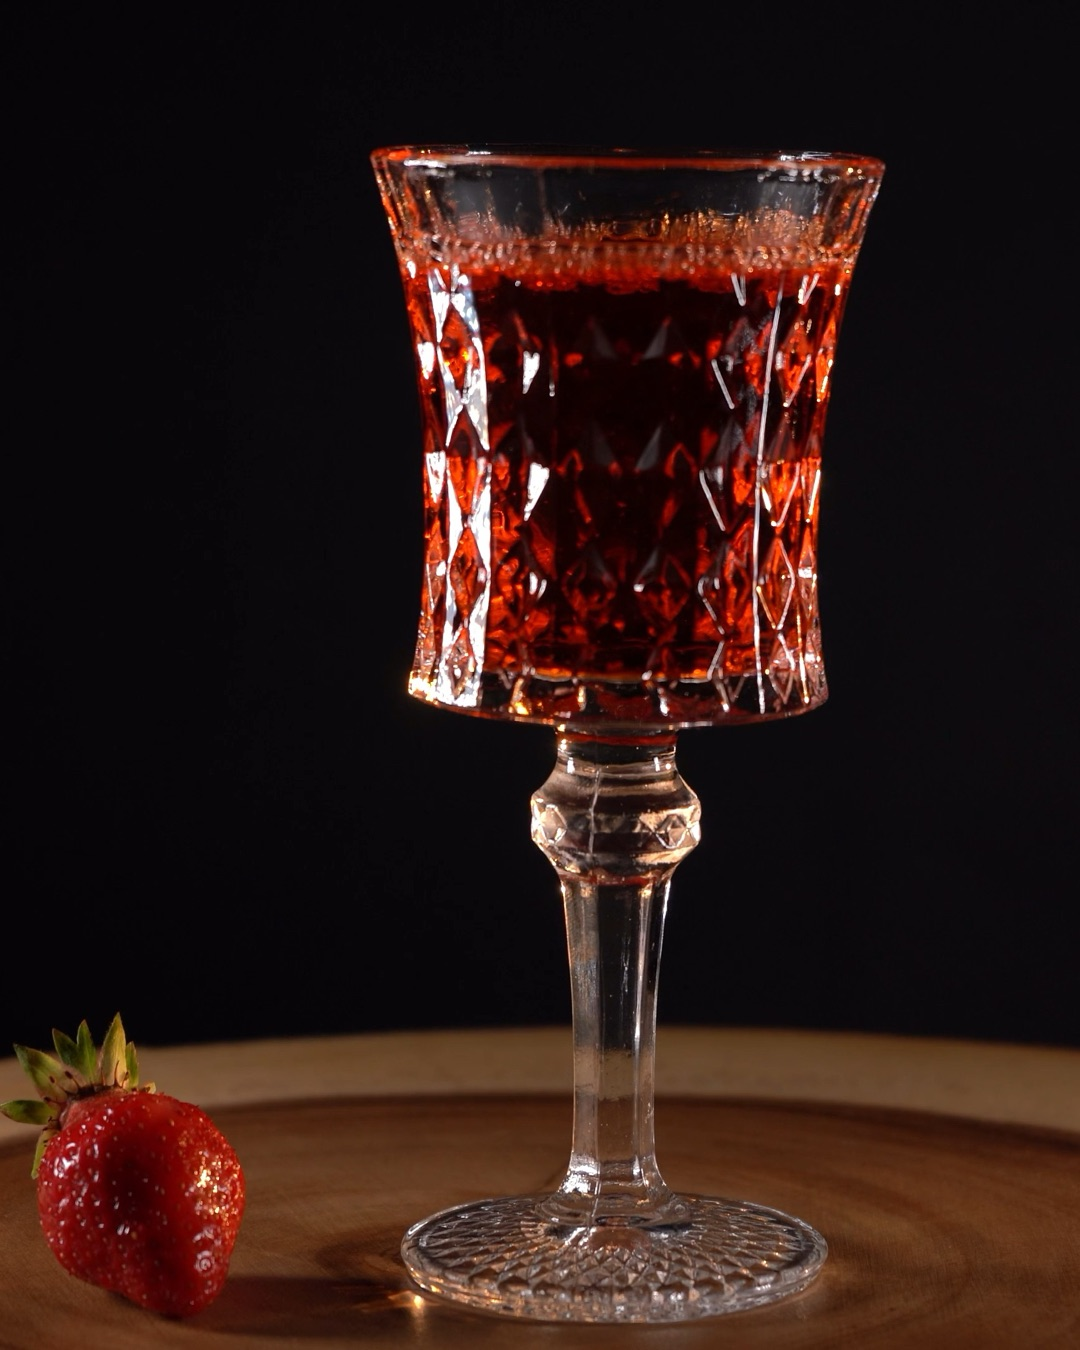
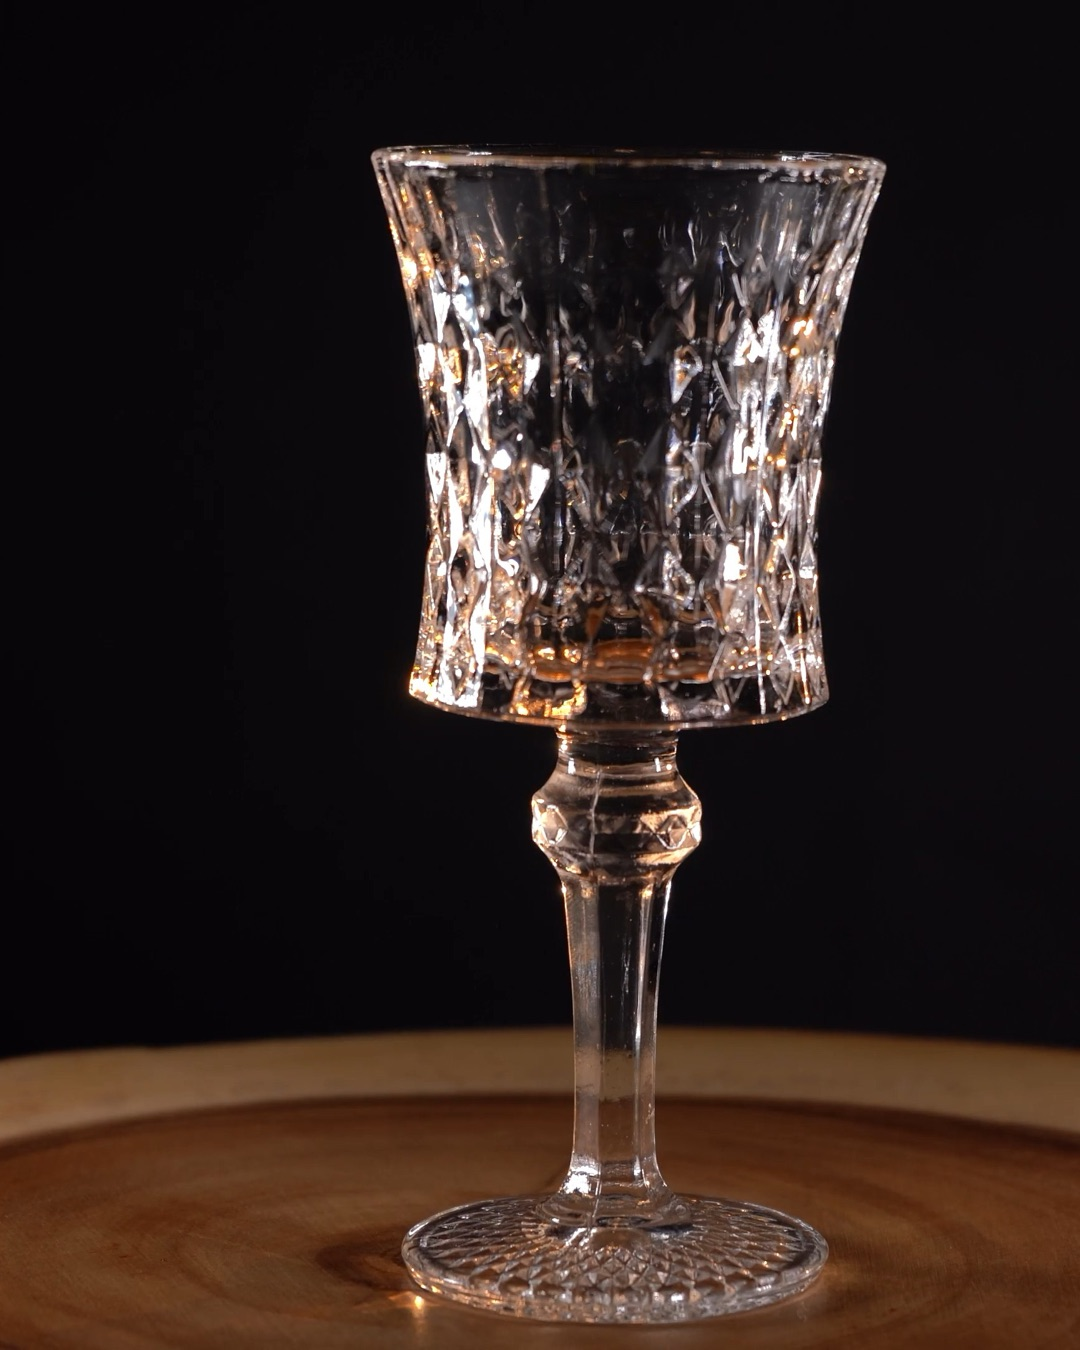
Video dell'hero affidabile su iPhone, intro più piccola, città
- Il video resta sempre visibile sotto la copertina (Safari non avvia i
  video invisibili): la copertina svanisce quando parte.
- Copertina = primo fotogramma (bicchiere vuoto); senza video (riduci
  movimento, risparmio dati, errore) si vede il drink finito.
- Con risparmio energetico su iPhone il video parte al primo tocco.
- Intro: logo AQUA più piccolo ed elegante, linea più corta.
- Indirizzo completo: 62012 Civitanova Marche (MC), anche nel link Maps.

diff --git a/index.html b/index.html
@@ -4,7 +4,7 @@
   <meta charset="utf-8">
   <meta name="viewport" content="width=device-width, initial-scale=1">
   <title>Aqua — Cocktail bar</title>
-  <meta name="description" content="Aqua, cocktail bar. Miscelazione d'autore, ghiaccio tagliato a mano e il tempo giusto per goderseli.">
+  <meta name="description" content="Aqua, cocktail bar a Civitanova Marche. Miscelazione d'autore, ghiaccio tagliato a mano e il tempo giusto per goderseli.">
   <meta name="theme-color" content="#0E1514">
   <link rel="icon" href="assets/favicon.svg?v=2" type="image/svg+xml">
   <meta property="og:type" content="website">
@@ -24,8 +24,8 @@
   </script>
   <link rel="preload" href="assets/fonts/cormorant-garamond-latin.woff2" as="font" type="font/woff2" crossorigin>
   <link rel="preload" href="assets/fonts/manrope-latin.woff2" as="font" type="font/woff2" crossorigin>
-  <link rel="stylesheet" href="assets/css/fonts.css?v=24">
-  <link rel="stylesheet" href="assets/css/style.css?v=24">
+  <link rel="stylesheet" href="assets/css/fonts.css?v=25">
+  <link rel="stylesheet" href="assets/css/style.css?v=25">
 </head>
 <body>
   <a class="skip" href="#main">Vai al contenuto</a>
@@ -75,7 +75,7 @@
         <li><a href="#contatti"><span>05</span>Dove siamo</a></li>
       </ol>
     </nav>
-    <p class="mobile-menu__foot">Corso Umberto I, 31 · <span data-open-status>Stasera dalle 17:00</span></p>
+    <p class="mobile-menu__foot">Corso Umberto I, 31 · Civitanova Marche · <span data-open-status>Stasera dalle 17:00</span></p>
   </div>
 
   <main id="main">
@@ -126,7 +126,7 @@
           </div>
         </div>
         <p class="status" hidden><span class="status__dot" aria-hidden="true"></span><span data-open-status>Stasera dalle 17:00</span></p>
-        <p class="hero__address hide-sm">Corso Umberto I, 31</p>
+        <p class="hero__address hide-sm">Corso Umberto I, 31 · Civitanova Marche</p>
         <a class="scroll-cue" href="#filosofia" aria-label="Scorri alla sezione Filosofia"><span></span></a>
       </div>
     </section>
@@ -255,9 +255,9 @@
             <h2 class="display reveal" id="visit-title">Vi aspettiamo <em>al bancone.</em></h2>
             <p class="lead reveal">Niente prenotazioni: i posti si assegnano in ordine di arrivo. Il momento più tranquillo è subito dopo l'apertura.</p>
 
-            <a class="address-link reveal" href="https://www.google.com/maps/search/?api=1&amp;query=Corso+Umberto+I+31" target="_blank" rel="noopener">
+            <a class="address-link reveal" href="https://www.google.com/maps/search/?api=1&amp;query=Corso+Umberto+I+31%2C+62012+Civitanova+Marche+MC" target="_blank" rel="noopener">
               <span class="address-link__text">Corso Umberto I, 31</span>
-              <span class="address-link__sub">Indicazioni <span aria-hidden="true">↗</span></span>
+              <span class="address-link__sub">62012 Civitanova Marche (MC) · Indicazioni <span aria-hidden="true">↗</span></span>
             </a>
           </div>
 
@@ -308,6 +308,6 @@
   </footer>
 
   <div class="grain" aria-hidden="true"></div>
-  <script src="assets/js/main.js?v=24" defer></script>
+  <script src="assets/js/main.js?v=25" defer></script>
 </body>
 </html>

diff --git a/assets/js/main.js b/assets/js/main.js
@@ -39,14 +39,23 @@
   const heroVideo = (() => {
     const video = $('.hero__video');
     if (!video) return null;
+    const media = $('.hero__media');
+    // senza video la copertina mostra il drink finito invece del bicchiere vuoto
+    const stillFull = () => {
+      $$('picture source, picture img', media).forEach((el) => {
+        const attr = el.tagName === 'IMG' ? 'src' : 'srcset';
+        el.setAttribute(attr, el.getAttribute(attr).replace(/\.jpg$/, '-fine.jpg'));
+      });
+    };
     const conn = navigator.connection;
     if (reduceMotion || (conn && conn.saveData) || !video.canPlayType('video/mp4')) {
       video.remove();
+      stillFull();
       return null;
     }
     const small = window.matchMedia('(max-width: 640px)').matches;
     const FADE = 0.9;   // secondi di dissolvenza, come la transizione CSS
-    const PAUSE = 2200; // ms sulla copertina tra un giro e l'altro
+    const PAUSE = 1400; // ms sulla copertina tra un giro e l'altro
     let started = false, inView = true, restartTimer = 0;
 
     video.muted = true;
@@ -60,11 +69,17 @@
     const play = () => {
       if (!started || !inView || document.hidden || restartTimer) return;
       const p = video.play();
-      if (p) p.catch(() => {}); // autoplay bloccato: resta la copertina
+      if (p) p.catch(() => {}); // autoplay bloccato (es. risparmio energetico su iPhone): resta la copertina
     };
-    video.addEventListener('playing', () => video.classList.add('is-playing'));
+    // su iPhone con risparmio energetico l'avvio automatico è bloccato: parte al primo tocco
+    const onGesture = () => { if (video.paused && !video.ended) play(); };
+    ['touchend', 'click'].forEach((ev) => document.addEventListener(ev, onGesture, { passive: true }));
+    video.addEventListener('playing', () => {
+      media.classList.add('is-playing');
+      ['touchend', 'click'].forEach((ev) => document.removeEventListener(ev, onGesture));
+    });
     video.addEventListener('timeupdate', () => {
-      if (video.duration && video.currentTime > video.duration - FADE - 0.3) video.classList.remove('is-playing');
+      if (video.duration && video.currentTime > video.duration - FADE - 0.3) media.classList.remove('is-playing');
     });
     video.addEventListener('ended', () => {
       restartTimer = setTimeout(() => {
@@ -76,7 +91,7 @@
     video.addEventListener('error', () => {
       // se l'HEVC dichiarato non si decodifica, si riprova una volta con H.264
       if (video.src.includes('.hevc.mp4')) { video.src = video.src.replace('.hevc.mp4', '.mp4'); play(); }
-      else video.remove();
+      else { video.remove(); media.classList.remove('is-playing'); stillFull(); }
     });
 
     new IntersectionObserver(([en]) => {

diff --git a/assets/css/style.css b/assets/css/style.css
@@ -211,10 +211,11 @@ ul, ol { margin: 0; padding: 0; list-style: none; }
   transform: scale(1.08); transform-origin: 50% 60%;
   animation: heroZoom 2.8s var(--ease-out) forwards;
 }
-.hero__video { opacity: 0; transition: opacity .9s ease; }
-.hero__video.is-playing { opacity: 1; }
+.hero__video { z-index: 1; }
+.hero__still { z-index: 2; transition: opacity .9s ease; }
+.hero__media.is-playing .hero__still { opacity: 0; }
 .hero__media::after {
-  content: ""; position: absolute; inset: 0;
+  content: ""; position: absolute; inset: 0; z-index: 3;
   background:
     linear-gradient(180deg, rgba(14,21,20,.75) 0%, rgba(14,21,20,0) 22%),
     linear-gradient(90deg, rgba(14,21,20,.9) 0%, rgba(14,21,20,.5) 40%, rgba(14,21,20,0) 68%),
@@ -429,12 +430,12 @@ figcaption { margin-top: 14px; font-size: 12px; letter-spacing: .06em; color: va
   display: flex; flex-direction: column; align-items: center; justify-content: center; gap: 28px;
   transition: transform 1.1s cubic-bezier(.76, 0, .24, 1);
 }
-.intro__logo { width: min(72vw, 540px); height: auto; fill: var(--ivory); overflow: visible; }
+.intro__logo { width: clamp(150px, 34vw, 230px); height: auto; fill: var(--ivory); overflow: visible; }
 .intro__word { transform: translateX(126.5px); animation: introWord 1.05s 1s var(--ease-out) forwards; }
 .intro__q { transform-box: fill-box; transform-origin: center; opacity: 0; transform: scale(.8); animation: introQ 1s .1s var(--ease-out) forwards; }
 .intro__a { opacity: 0; transform: translateX(70px); animation: introSide 1s 1.08s var(--ease-out) forwards; }
 .intro__ua { opacity: 0; transform: translateX(-70px); animation: introSide 1s 1.08s var(--ease-out) forwards; }
-.intro__line { width: 120px; height: 1px; background: var(--brass); transform: scaleX(0); animation: introLine 1.2s 1.5s var(--ease-out) forwards; }
+.intro__line { width: 64px; height: 1px; background: var(--brass); transform: scaleX(0); animation: introLine 1.2s 1.5s var(--ease-out) forwards; }
 @keyframes introQ { to { opacity: 1; transform: none; } }
 @keyframes introWord { to { transform: none; } }
 @keyframes introSide { to { opacity: 1; transform: none; } }

diff --git a/carta.html b/carta.html
@@ -9,8 +9,8 @@
   <link rel="icon" href="assets/favicon.svg?v=2" type="image/svg+xml">
   <link rel="preload" href="assets/fonts/cormorant-garamond-latin.woff2" as="font" type="font/woff2" crossorigin>
   <link rel="preload" href="assets/fonts/manrope-latin.woff2" as="font" type="font/woff2" crossorigin>
-  <link rel="stylesheet" href="assets/css/fonts.css?v=24">
-  <link rel="stylesheet" href="assets/css/style.css?v=24">
+  <link rel="stylesheet" href="assets/css/fonts.css?v=25">
+  <link rel="stylesheet" href="assets/css/style.css?v=25">
 </head>
 <body class="carta-page">
   <a class="skip" href="#contenuto">Vai al contenuto</a>
@@ -43,12 +43,12 @@
   <footer class="site-footer">
     <div class="wrap site-footer__inner">
       <p class="site-footer__mark" aria-hidden="true"><svg viewBox="0 0 1084 302" focusable="false"><use href="assets/brand/logo.svg#aqua"></use></svg></p>
-      <p class="site-footer__small">© 2026 Aqua cocktail bar · Corso Umberto I, 31</p>
+      <p class="site-footer__small">© 2026 Aqua cocktail bar · Corso Umberto I, 31 · Civitanova Marche (MC)</p>
       <p class="site-footer__small site-footer__legal"><a href="privacy.html#privacy">Privacy</a> · <a href="privacy.html#cookie">Cookie</a></p>
       <a class="site-footer__top" href="index.html">Vai al sito</a>
     </div>
   </footer>
 
-  <script src="assets/js/carta.js?v=24" defer></script>
+  <script src="assets/js/carta.js?v=25" defer></script>
 </body>
 </html>

diff --git a/privacy.html b/privacy.html
@@ -9,8 +9,8 @@
   <link rel="icon" href="assets/favicon.svg?v=2" type="image/svg+xml">
   <link rel="preload" href="assets/fonts/cormorant-garamond-latin.woff2" as="font" type="font/woff2" crossorigin>
   <link rel="preload" href="assets/fonts/manrope-latin.woff2" as="font" type="font/woff2" crossorigin>
-  <link rel="stylesheet" href="assets/css/fonts.css?v=24">
-  <link rel="stylesheet" href="assets/css/style.css?v=24">
+  <link rel="stylesheet" href="assets/css/fonts.css?v=25">
+  <link rel="stylesheet" href="assets/css/style.css?v=25">
 </head>
 <body class="legal-page">
   <a class="skip" href="#contenuto">Vai al contenuto</a>
